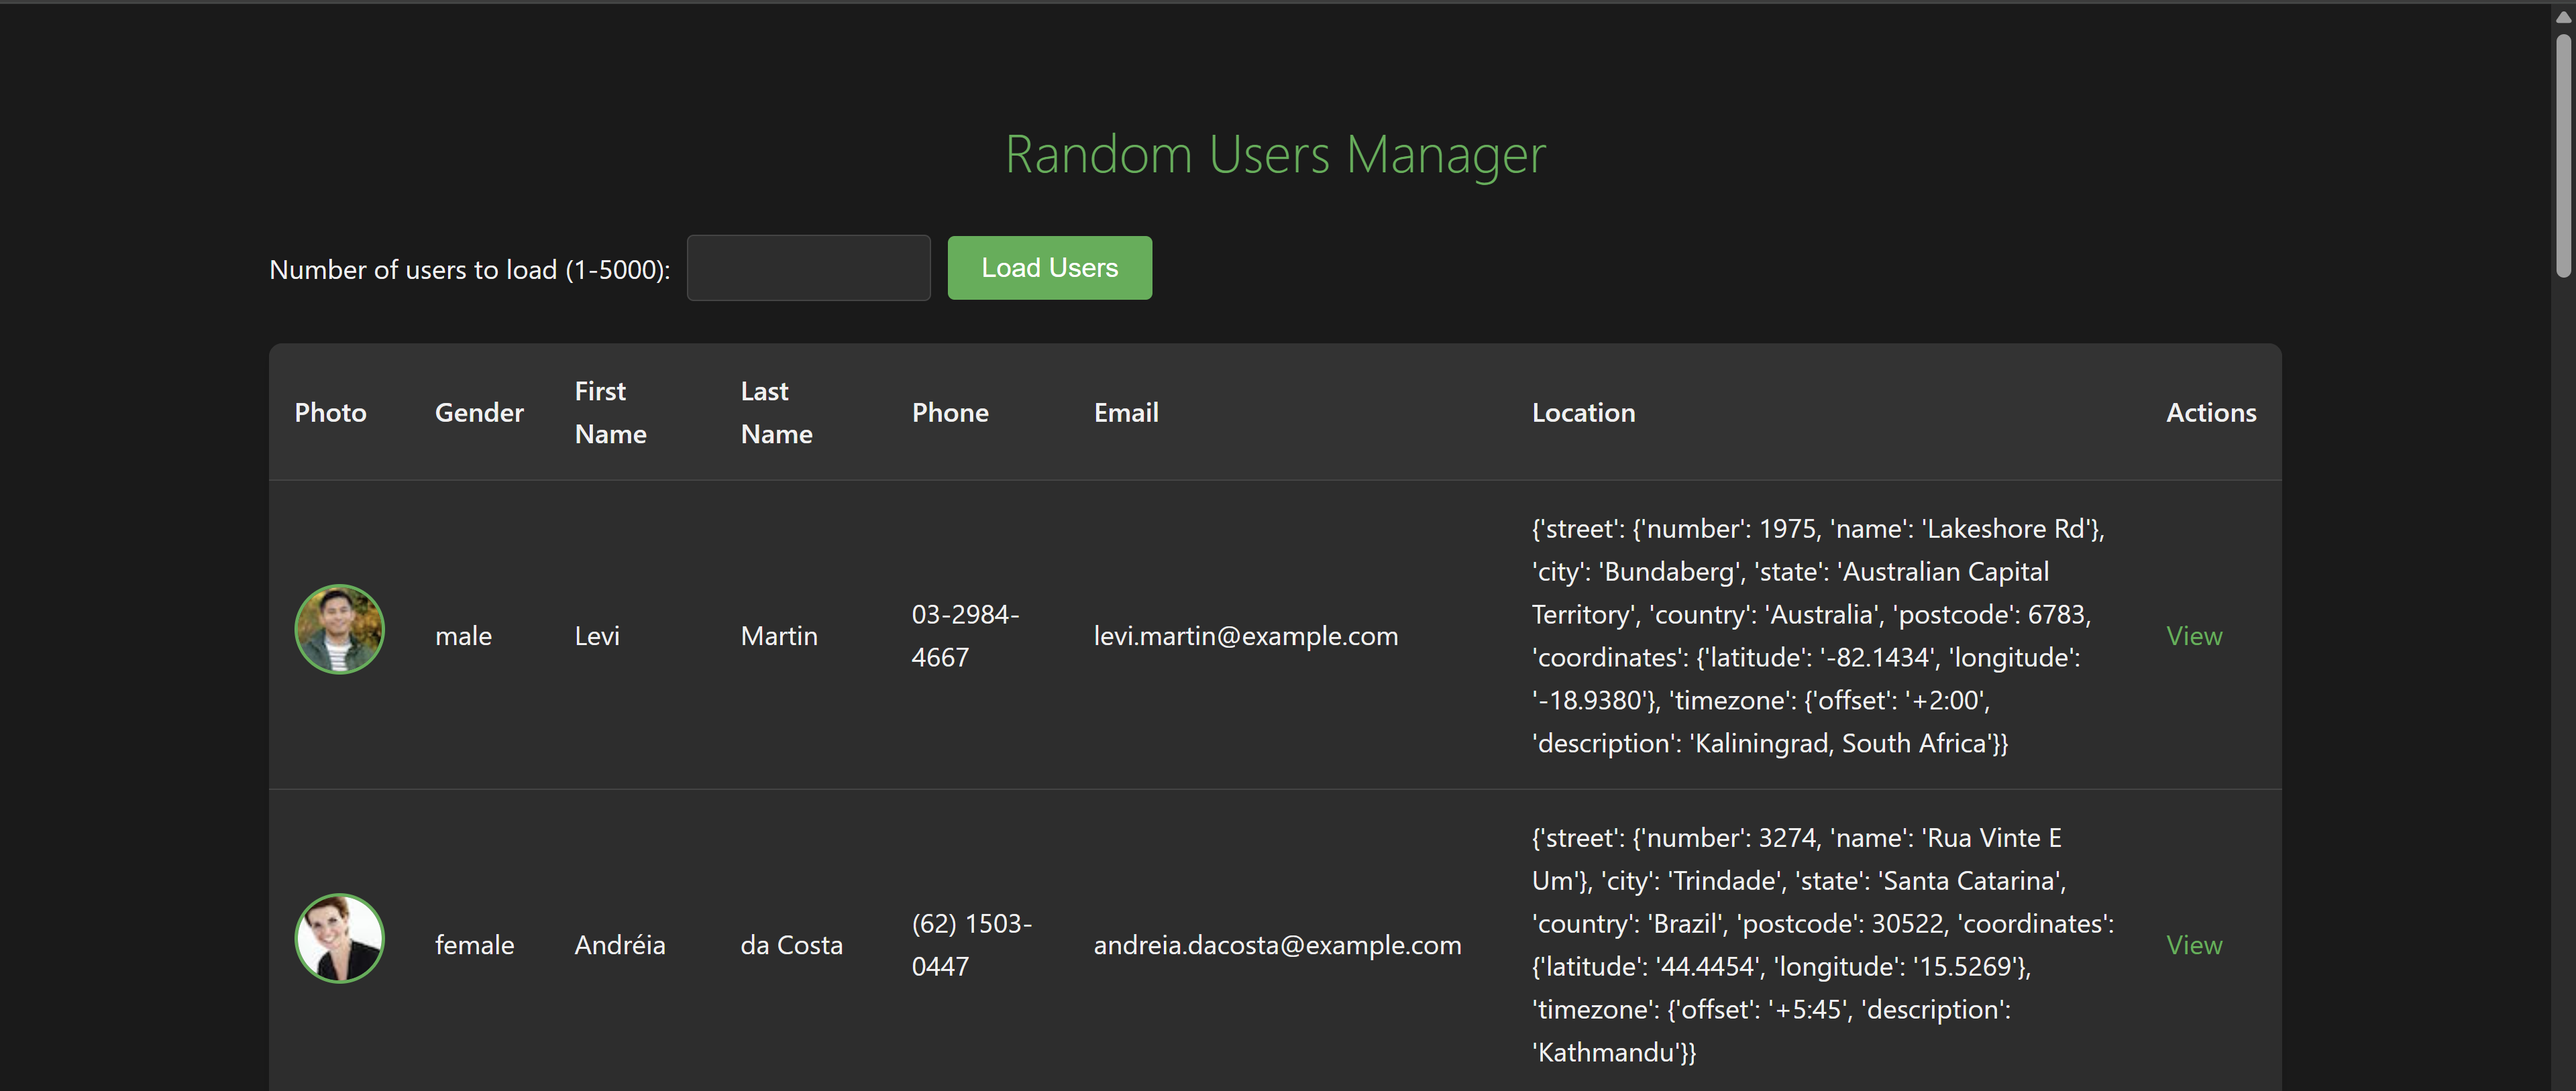
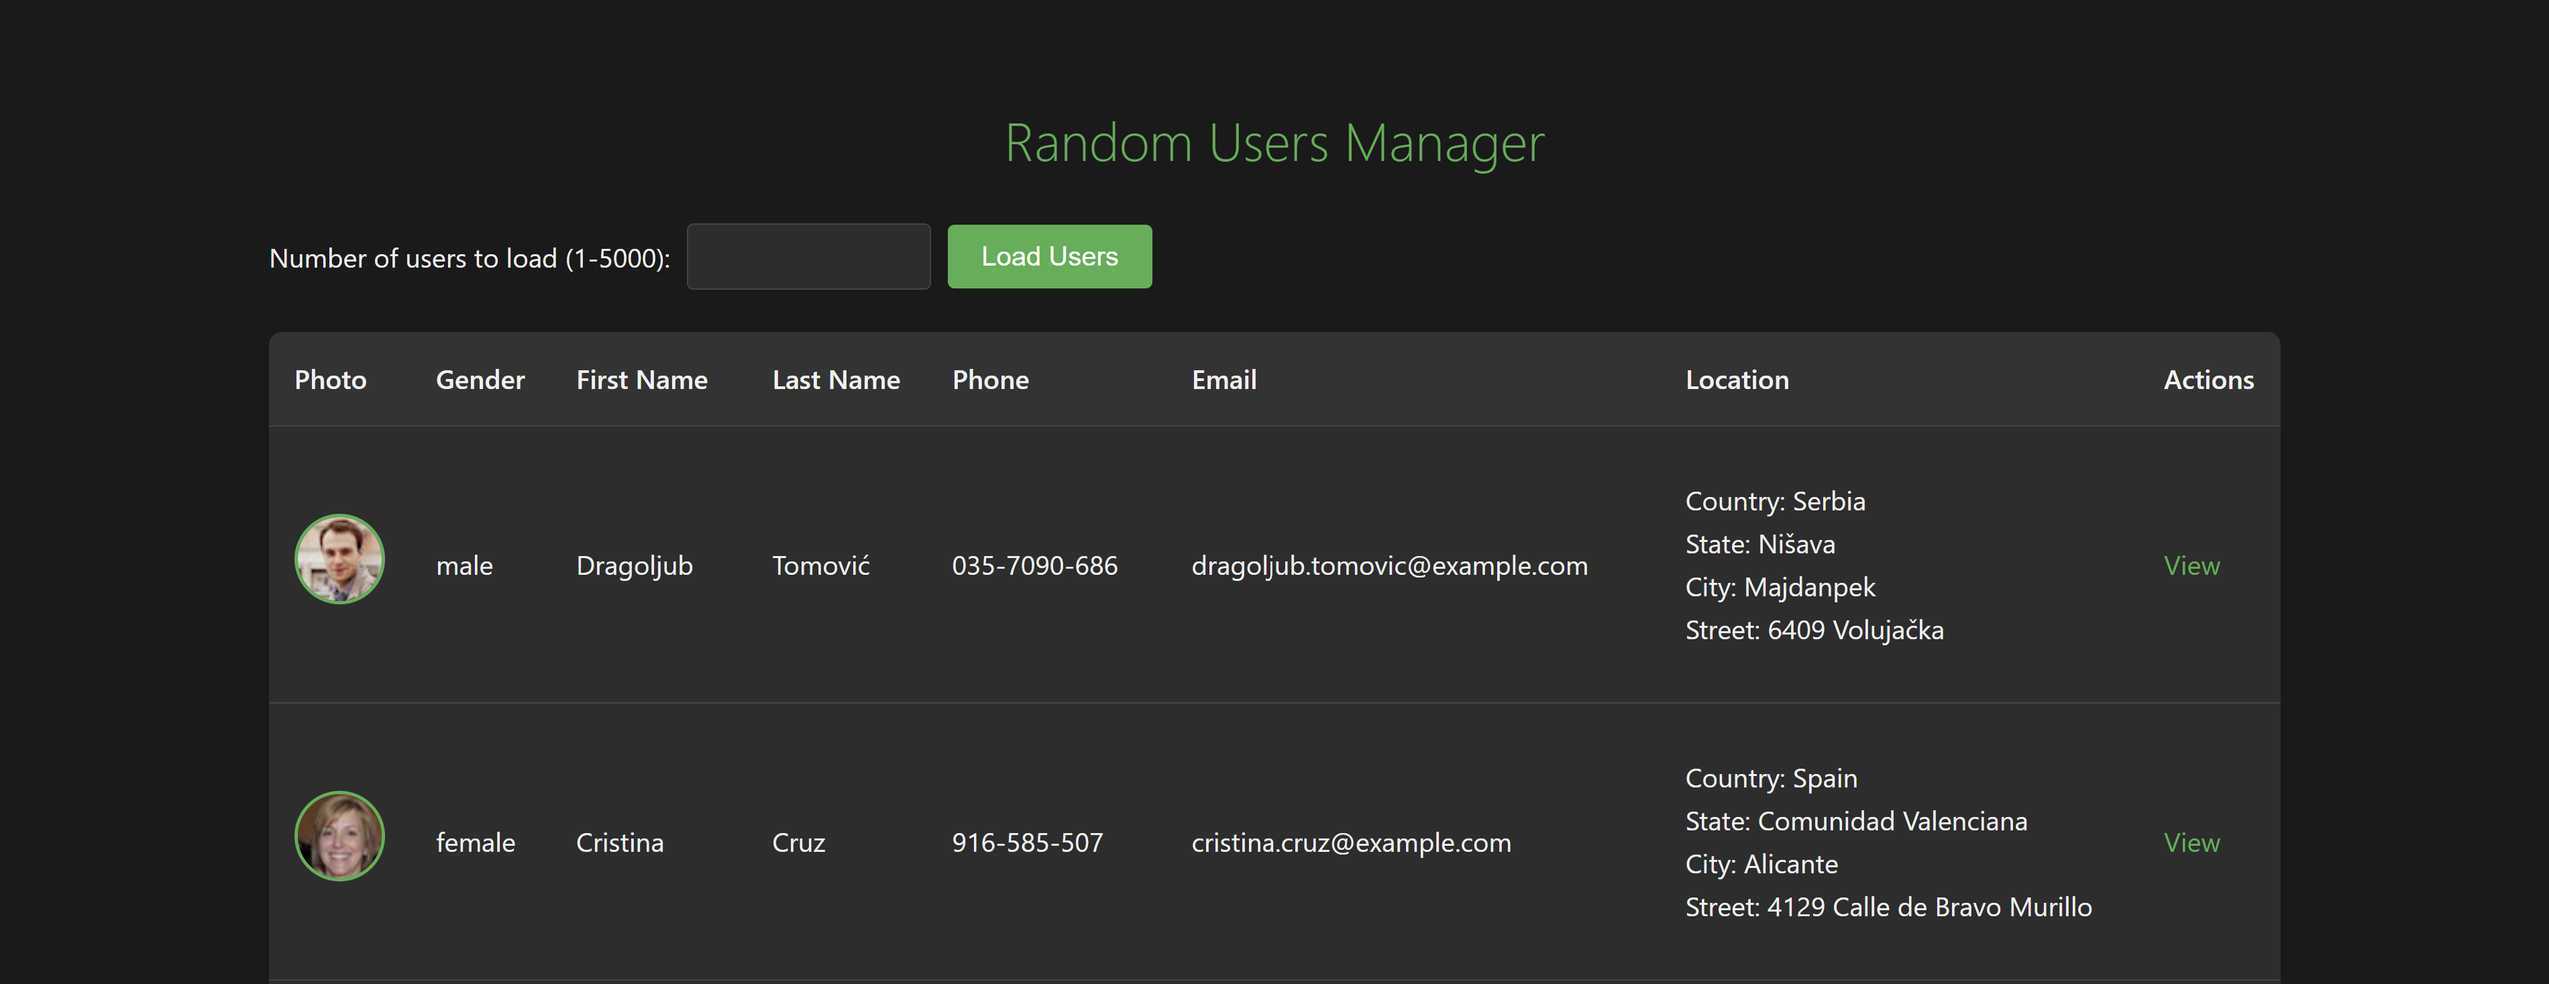
Revision of README.md changes to the Location design, made it more readable

diff --git a/app/templates/user_detail.html b/app/templates/user_detail.html
@@ -9,7 +9,7 @@
         <p><strong>Gender:</strong> {{ user.gender }}</p>
         <p><strong>Email:</strong> {{ user.email }}</p>
         <p><strong>Phone:</strong> {{ user.phone }}</p>
-        <p><strong>Location:</strong> {{ user.location }}</p>
+        <p><strong>Location:</strong> <p>{{ user.location|replace('\n', '<br>')|safe }}</p></p>
     </div>
 
     <a href="/" class="back-link">Back to list</a>

diff --git a/app/templates/index.html b/app/templates/index.html
@@ -37,7 +37,7 @@
             <td>{{ user.last_name }}</td>
             <td>{{ user.phone }}</td>
             <td>{{ user.email }}</td>
-            <td>{{ user.location }}</td>
+            <td><p>{{ user.location|replace('\n', '<br>')|safe }}</p></td>
             <td><a href="/{{ user.id }}">View</a></td>
         </tr>
         {% endfor %}

diff --git a/app/services/random_user_service.py b/app/services/random_user_service.py
@@ -24,15 +24,31 @@ class RandomUserService:
         users_data = await self.fetch_users(count)
         for user_data in users_data:
             try:
-                user_dict = {
-                    "gender": user_data["gender"],
-                    "first_name": user_data["name"]["first"],
-                    "last_name": user_data["name"]["last"],
-                    "email": user_data["email"],
-                    "phone": user_data["phone"],
-                    "location": str(user_data["location"]),
-                    "picture_url": user_data["picture"]["thumbnail"]
-                }
+                user_dict = self._transform_user_data(user_data)
                 await self.repository.create_user(user_dict)
             except Exception as e:
                 continue
+    
+    def _transform_user_data(self, user_data: dict) -> dict:
+        location = user_data["location"]
+        street = location.get("street", {})
+        
+        return {
+            "gender": user_data["gender"],
+            "first_name": user_data["name"]["first"],
+            "last_name": user_data["name"]["last"],
+            "email": user_data["email"],
+            "phone": user_data["phone"],
+            "location": self._format_location(location),
+            "picture_url": user_data["picture"]["thumbnail"]
+        }
+
+    def _format_location(self, location: dict) -> str:
+        street = location.get("street", {})
+        parts = [
+            f"Country: {location.get('country', 'N/A')}",
+            f"State: {location.get('state', 'N/A')}",
+            f"City: {location.get('city', 'N/A')}",
+            f"Street: {street.get('number', 'N/A')} {street.get('name', 'N/A')}"
+        ]
+        return "\n".join(parts)

diff --git a/app/routers/frontend.py b/app/routers/frontend.py
@@ -79,14 +79,12 @@ async def random_user(request: Request, db: AsyncSession = Depends(get_db)):
 
 @router.get("/admin/clear")
 async def clear_users_table(db: AsyncSession = Depends(get_db)):
-    """Полная очистка таблицы users с reset последовательности"""
     try:
-        # TRUNCATE с RESET IDENTITY полностью очищает таблицу и сбрасывает счётчик
         await db.execute(text("TRUNCATE TABLE users RESTART IDENTITY CASCADE"))
         await db.commit()
         
         return RedirectResponse(
-            url="/?message=Users+table+cleared+with+ID+reset",
+            url="/?message=Clear_DB",
             status_code=303
         )
     except Exception as e:
